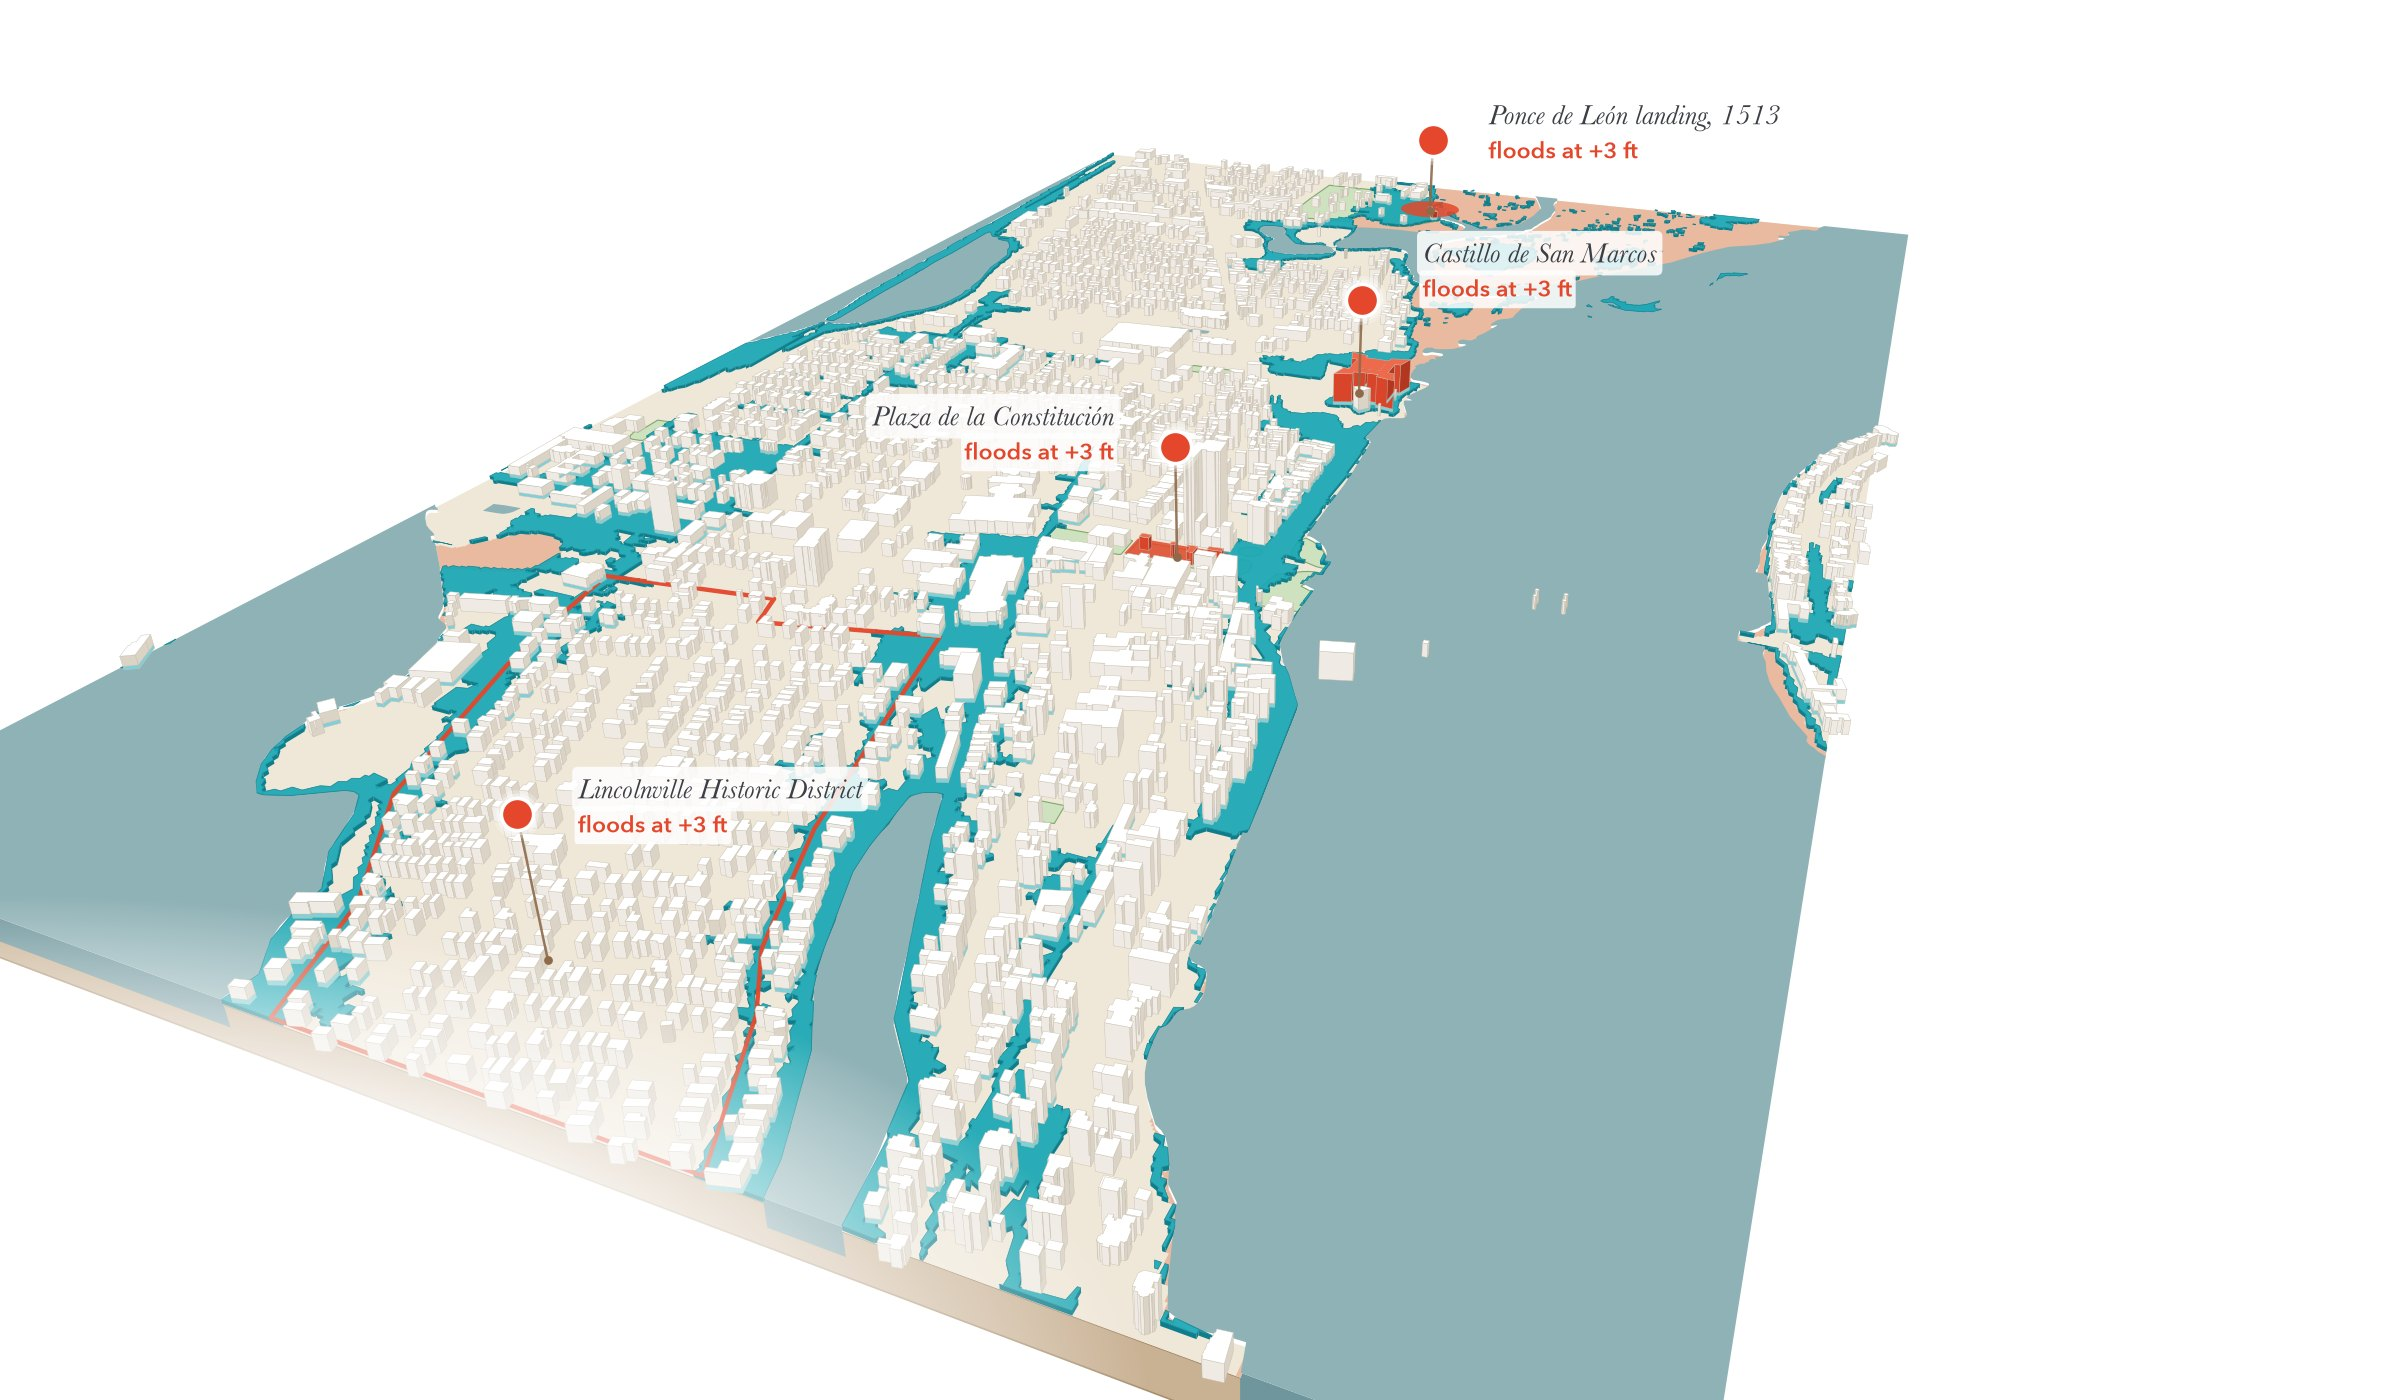
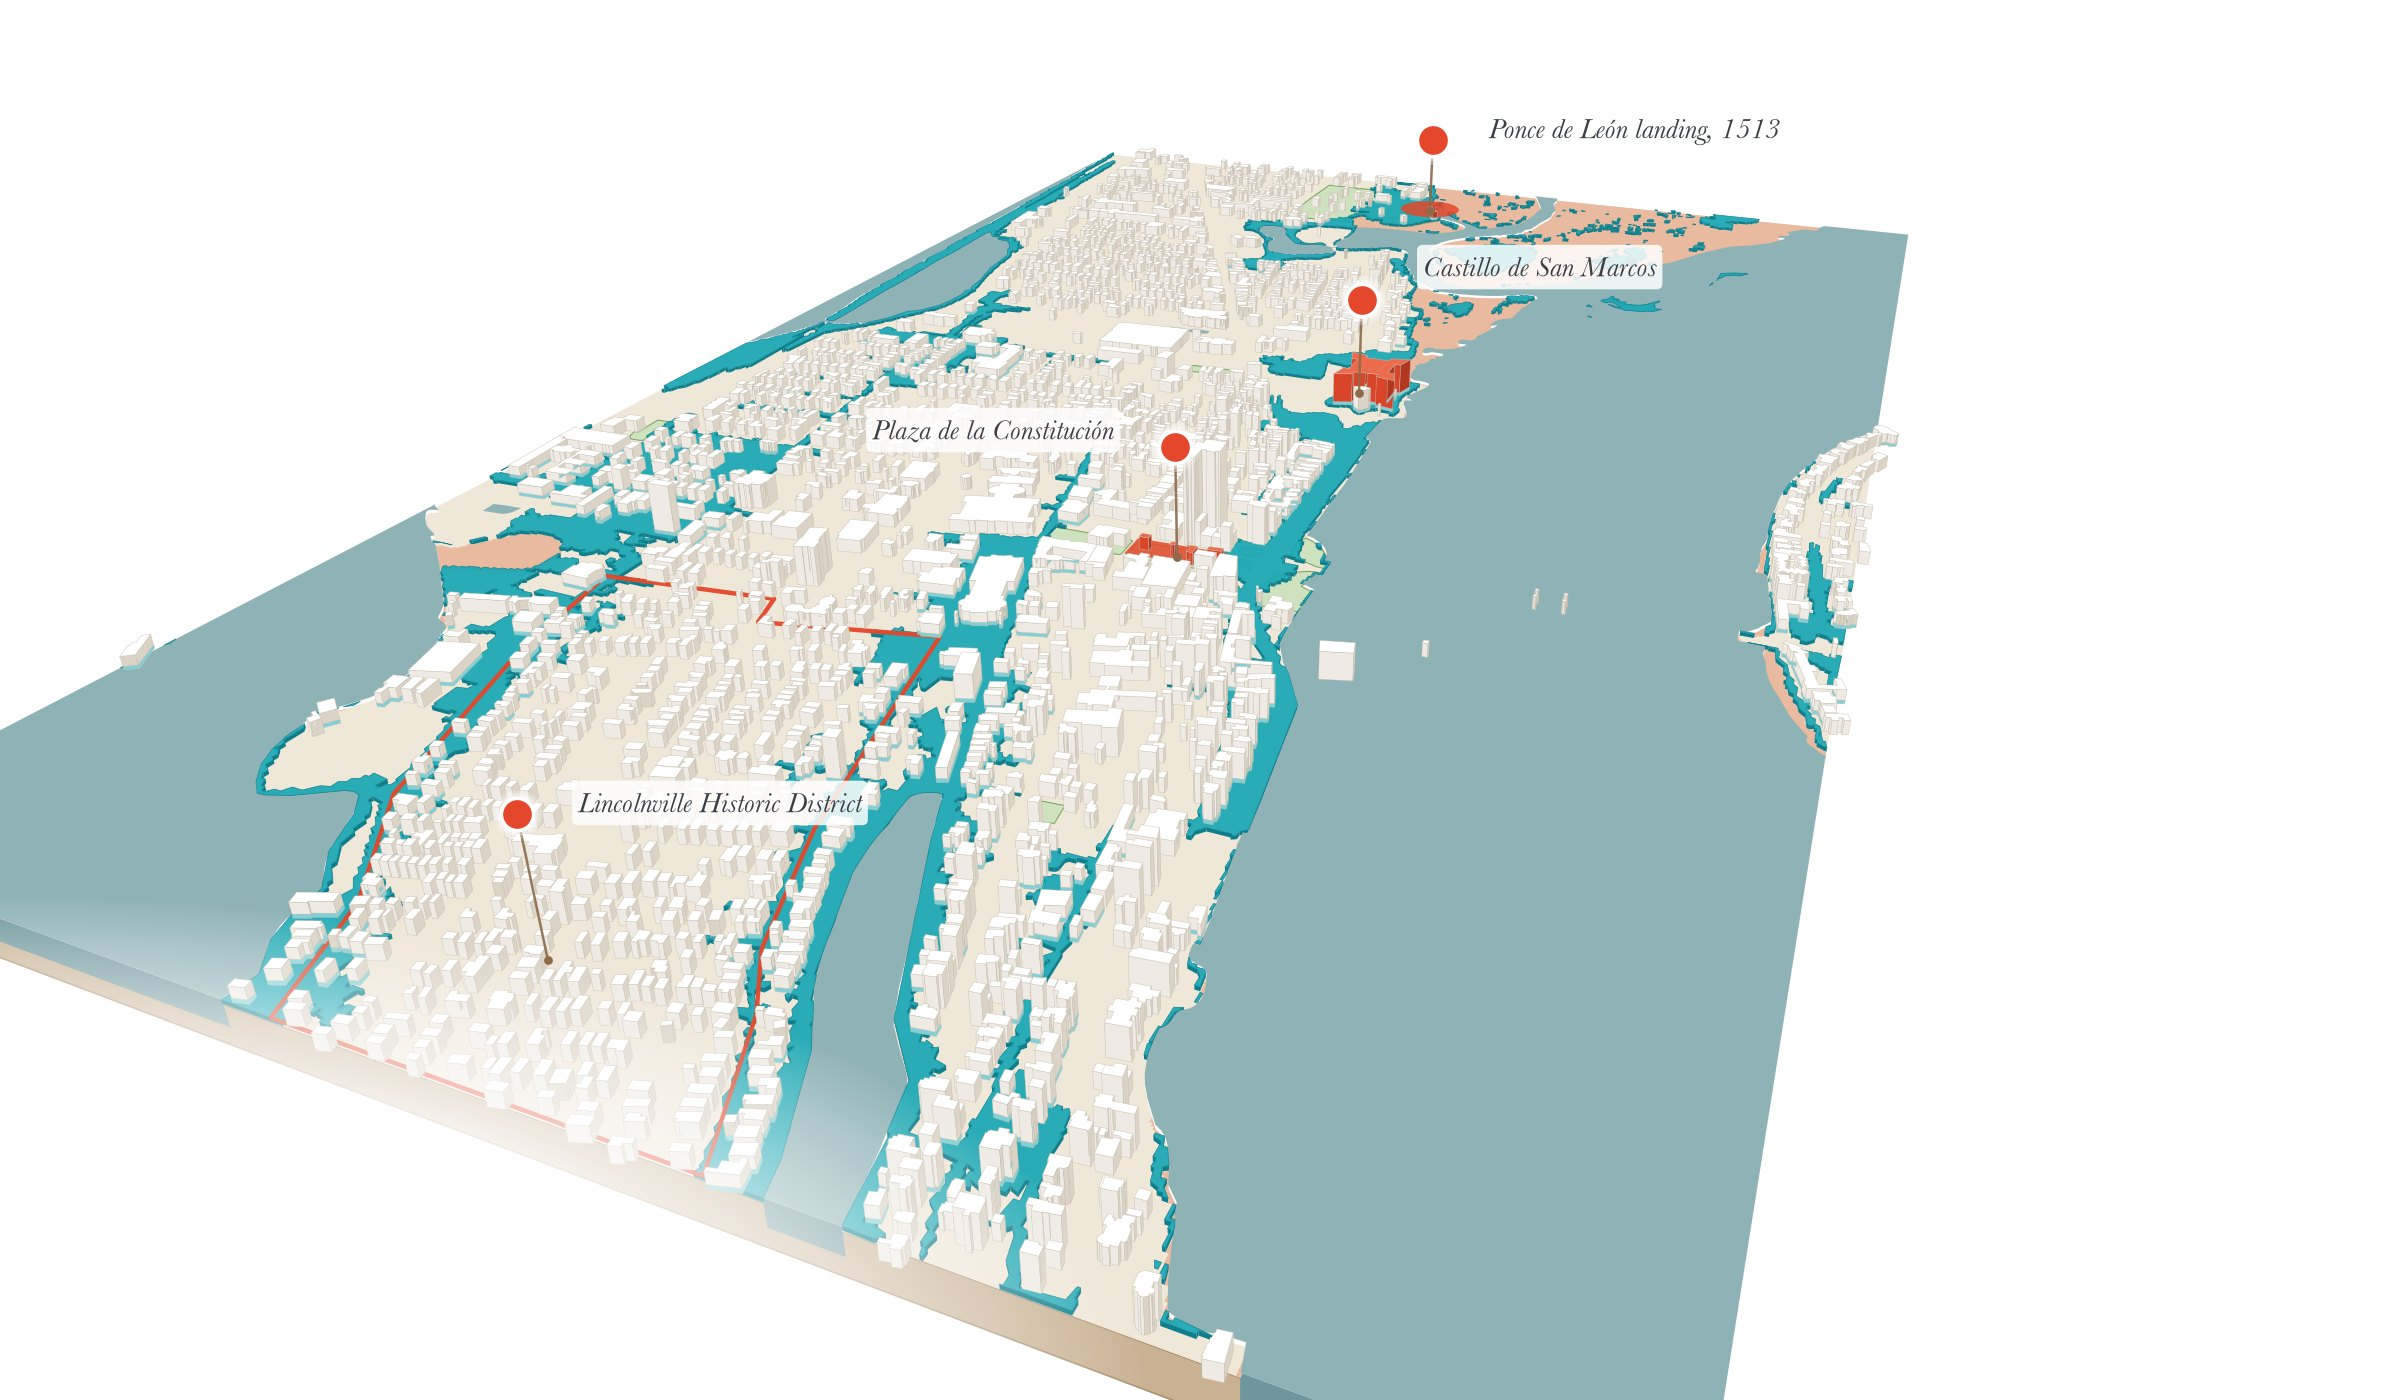
Compare slider: names-only landmarks, a caption on each side, stat line follows the divider

diff --git a/docs/index.html b/docs/index.html
@@ -149,8 +149,19 @@ code { font-family: var(--font-mono); font-size: 0.9em; }
   position: relative; aspect-ratio: 12 / 7; overflow: hidden; user-select: none;
   background: #ffffff; border: 1px solid var(--rule); border-radius: 3px;
 }
+.cmp .layer { position: absolute; inset: 0; }
+.cmp .before-layer { clip-path: inset(0 calc(100% - var(--pos)) 0 0); }
 .cmp img { position: absolute; inset: 0; width: 100%; height: 100%; display: block; object-fit: cover; }
-.cmp .before { clip-path: inset(0 calc(100% - var(--pos)) 0 0); }
+/* captions live inside each layer, so dragging reveals the one for the side you are looking at */
+.cmp .cap {
+  position: absolute; bottom: 4%; display: grid; gap: 0.15rem; max-width: 46%;
+  font-family: var(--font-body); color: #33393f; pointer-events: none;
+}
+.cmp .cap b { font: 700 clamp(1.4rem, 4.2vw, 3rem)/1 var(--font-display); }
+.cmp .cap span { font-size: clamp(0.75rem, 1.6vw, 1rem); }
+.cmp .cap-before { left: 3.5%; }
+.cmp .cap-after { right: 3.5%; text-align: right; }
+.cmp .cap-after b { color: #0f6e7a; }
 .cmp .blade {
   position: absolute; top: 0; bottom: 0; left: var(--pos); width: 4px; margin-left: -2px;
   background: #ffffff; box-shadow: 0 0 10px rgba(20, 40, 45, 0.45); pointer-events: none;
@@ -190,14 +201,20 @@ code { font-family: var(--font-mono); font-size: 0.9em; }
     </div>
     <div class="levels" role="group" aria-label="Sea-level rise shown on the right"></div>
     <div class="cmp" id="cmp">
-      <img class="after" src="figures/compare/7ft.jpg" alt="The old town at +7 ft: aqua water between white buildings, landmarks in red" draggable="false">
-      <img class="before" src="figures/compare/today.jpg" alt="The old town today, in grey" draggable="false">
+      <div class="layer after-layer">
+        <img class="after" src="figures/compare/7ft.jpg" alt="The old town at +7 ft: aqua water between white buildings, landmarks in red" draggable="false">
+        <div class="cap cap-after"><b id="cmp-cap-ft">+7 ft</b><span id="cmp-cap-pct">61.8% of the city's land newly under water</span></div>
+      </div>
+      <div class="layer before-layer">
+        <img class="before" src="figures/compare/today.jpg" alt="The old town today, in grey" draggable="false">
+        <div class="cap cap-before"><b>Today</b><span>old town at mean higher high water</span></div>
+      </div>
       <span class="tag tag-before">TODAY</span>
       <span class="tag tag-after" id="cmp-tag">+7 FT</span>
       <div class="blade"><span class="knob"><svg width="22" height="14" viewBox="0 0 22 14" aria-hidden="true"><path d="M0 7 7 1v12zM22 7l-7 6V1z" fill="#33393f"/></svg></span></div>
       <input type="range" min="0" max="100" step="0.5" value="50" id="cmp-range" aria-label="Divider position: left of it is today, right of it is the chosen sea-level rise">
     </div>
-    <p class="cmp-stat" aria-live="polite"><b id="cmp-pct">61.8%</b> of the city's land newly under water at <span id="cmp-ft">+7 ft</span></p>
+    <p class="cmp-stat" id="cmp-stat" aria-live="polite"></p>
   </section>
 
   <section class="gauge" aria-labelledby="gauge-title">
@@ -374,20 +391,36 @@ code { font-family: var(--font-mono); font-size: 0.9em; }
   var range = document.getElementById("cmp-range");
   var after = box.querySelector(".after");
   var tag = document.getElementById("cmp-tag");
-  var pctOut = document.getElementById("cmp-pct");
-  var ftOut = document.getElementById("cmp-ft");
   var group = document.querySelector(".levels");
 
-  function move() { box.style.setProperty("--pos", range.value + "%"); }
+  var stat = document.getElementById("cmp-stat");
+  var capFt = document.getElementById("cmp-cap-ft");
+  var capPct = document.getElementById("cmp-cap-pct");
+  var current = null, todayKm2 = null;
+
+  function describe() {
+    // more of the frame is today -> describe today; more is flooded -> describe the chosen level
+    if (Number(range.value) >= 50 || !current) {
+      stat.innerHTML = "<b>Today</b> at mean higher high water" +
+        (todayKm2 == null ? "" : ", " + todayKm2.toFixed(2) + " km² of city land, mostly tidal marsh, is already under water");
+    } else {
+      var p = current.pct == null ? "" : current.pct.toFixed(1) + "%";
+      stat.innerHTML = "<b>" + p + "</b> of the city's land newly under water at +" + current.ft + " ft";
+    }
+  }
+
+  function move() { box.style.setProperty("--pos", range.value + "%"); describe(); }
   range.addEventListener("input", move);
-  move();
+  box.style.setProperty("--pos", range.value + "%");
 
   function show(level) {
     after.src = "figures/compare/" + level.ft + "ft.jpg";
     after.alt = "The old town at +" + level.ft + " ft: aqua water between white buildings, landmarks in red";
+    current = level;
     tag.textContent = "+" + level.ft + " FT";
-    ftOut.textContent = "+" + level.ft + " ft";
-    if (level.pct != null) pctOut.textContent = level.pct.toFixed(1) + "%";
+    capFt.textContent = "+" + level.ft + " ft";
+    capPct.textContent = level.pct == null ? "" : level.pct.toFixed(1) + "% of the city's land newly under water";
+    describe();
     group.querySelectorAll("button").forEach(function (b) {
       b.setAttribute("aria-pressed", String(Number(b.dataset.ft) === level.ft));
     });
@@ -411,7 +444,7 @@ code { font-family: var(--font-mono); font-size: 0.9em; }
   // numbers come from levels.json (written from outputs/land_loss.csv by make covers)
   fetch("figures/compare/levels.json")
     .then(function (r) { if (!r.ok) throw new Error(r.status); return r.json(); })
-    .then(function (data) { build(data.levels); })
+    .then(function (data) { todayKm2 = data.today_km2; build(data.levels); })
     .catch(function () { build([1, 3, 5, 7, 9].map(function (ft) { return { ft: ft, pct: null }; })); });
 })();
 </script>

diff --git a/scripts/covers/persp.py b/scripts/covers/persp.py
@@ -326,6 +326,9 @@ def view_limits():
     return mx - w / 2, mx + w / 2, my - h / 2, my + h / 2
 
 
+PEARL_SHOW_LEVEL = True  # "floods at +N ft" under each name; off for the compare stills
+
+
 def draw_pearls(ax, rows, level):
     pearl_lib.draw(
         ax,
@@ -338,6 +341,7 @@ def draw_pearls(ax, rows, level):
         string=False,
         pin=lambda x, y: project(x, y, 0),
         label_bg=0.85,
+        show_level=PEARL_SHOW_LEVEL,
     )
 
 
@@ -480,8 +484,10 @@ def make_compare(scale=2):
     """
     import json
 
+    global PEARL_SHOW_LEVEL
     out = OUT.parent / "compare"
     out.mkdir(parents=True, exist_ok=True)
+    PEARL_SHOW_LEVEL = False  # the page says which level each half shows
     for lv in LEVELS:
         tmp = out / "_tmp.png"
         fig = render(lv, with_text=False)
@@ -495,8 +501,11 @@ def make_compare(scale=2):
         else:
             im.save(out / f"{lv}ft.jpg", quality=86, optimize=True, progressive=True)
         print("compare", lv)
+    PEARL_SHOW_LEVEL = True
     levels = [{"ft": lv, "pct": round(float(pct[lv]), 1)} for lv in LEVELS if lv > 0]
-    (out / "levels.json").write_text(json.dumps({"levels": levels, "source": "outputs/land_loss.csv"}, indent=2))
+    today_km2 = float(table[(table["kind"] == "total") & (table["level_ft"] == 0)]["inundated_land_km2"].iloc[0])
+    data = {"today_km2": round(today_km2, 2), "levels": levels, "source": "outputs/land_loss.csv"}
+    (out / "levels.json").write_text(json.dumps(data, indent=2))
 
 
 if __name__ == "__main__":

diff --git a/scripts/covers/pearls.py b/scripts/covers/pearls.py
@@ -150,6 +150,7 @@ def draw(
     label_bg=0.8,
     pin=None,
     icons=False,
+    show_level=True,
 ):
     """Draw the string, the pearls and their labels.
 
@@ -233,7 +234,7 @@ def draw(
         ax.annotate(
             row["label"],
             xy=(px, py),
-            xytext=(dx, dy + 5),
+            xytext=(dx, dy + 5 if show_level else dy),
             textcoords="offset points",
             ha=ha,
             va="center",
@@ -244,6 +245,8 @@ def draw(
             zorder=z + 5,
             bbox=dict(boxstyle="round,pad=0.2", fc="white", ec="none", alpha=label_bg),
         )
+        if not show_level:  # names only, e.g. when the image itself stands for one level
+            continue
         ax.annotate(
             when,
             xy=(px, py),
